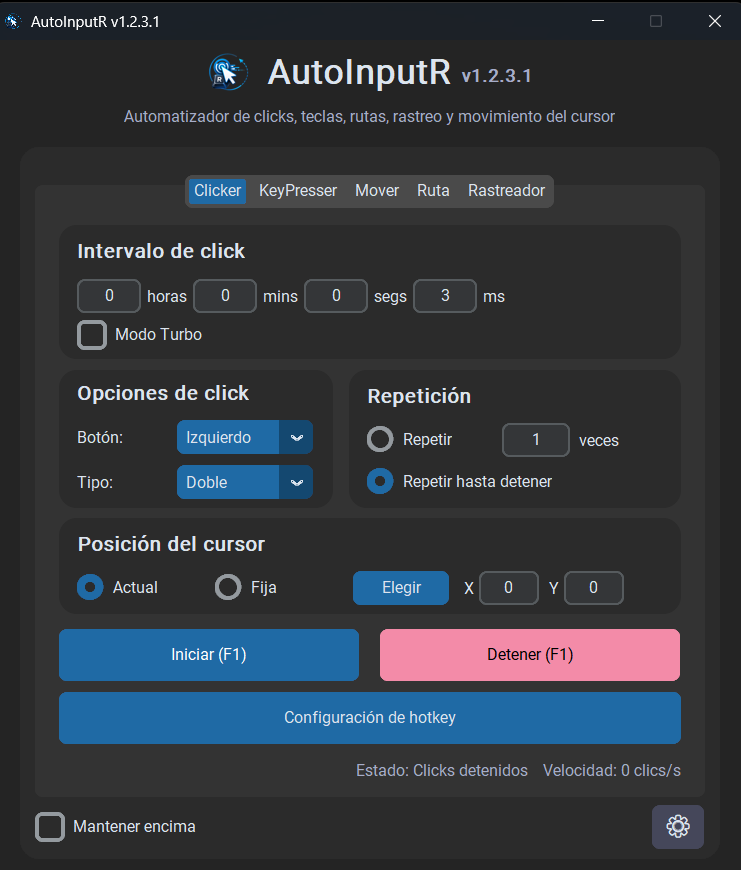
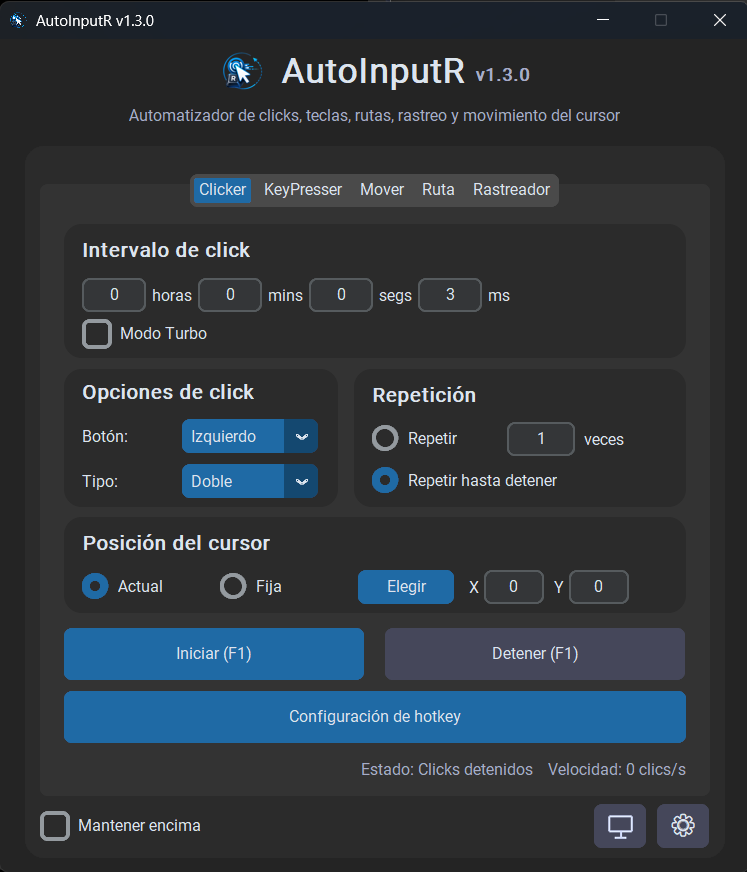
Actualizar documentación para AutoInputR v1.3.0

diff --git a/README.md b/README.md
@@ -6,25 +6,7 @@ AutoInputR es una aplicación de escritorio para Windows que permite automatizar
 
 ## Versión actual
 
-**AutoInputR v1.2.3.1**
-
-## Características
-
-* Clicker automático con intervalos configurables.
-* Click simple o doble.
-* Posición actual o coordenadas fijas.
-* KeyPresser para repetir una tecla seleccionada.
-* Movimiento automático del cursor dentro de una zona.
-* Velocidad de movimiento configurable.
-* Grabación y reproducción de rutas del cursor.
-* Registro de clicks dentro de las rutas.
-* Grabación de rutas manteniendo otra aplicación o juego enfocado.
-* Rastreo visual de objetivos mediante plantillas.
-* Movimiento suave hacia objetivos detectados.
-* Sistema anti-AFK para Mover y Rastreador.
-* Hotkeys globales configurables.
-* Configuración persistente.
-* Integración con la bandeja del sistema.
+**AutoInputR v1.3.0**
 
 ## Descargar AutoInputR
 
@@ -32,7 +14,7 @@ La versión oficial más reciente se encuentra en la sección **Releases** de es
 
 Descarga:
 
-`AutoInputR_Setup_v1.2.3.1.exe`
+`AutoInputR_Setup_v1.3.0.exe`
 
 Después:
 
@@ -40,17 +22,82 @@ Después:
 2. Sigue las instrucciones mostradas.
 3. Abre AutoInputR desde el acceso directo creado.
 
+## Características
+
+### Clicker
+
+* Clicks automáticos con intervalos configurables.
+* Click simple o doble.
+* Botón izquierdo, derecho o central.
+* Posición actual del cursor o coordenadas fijas.
+* Repetición limitada o indefinida.
+* Modo Turbo.
+
+### KeyPresser
+
+* Repetición automática de una tecla seleccionada.
+* Intervalos configurables.
+* Repetición limitada o indefinida.
+* Hotkeys globales.
+* Modo Turbo.
+
+### Mover
+
+* Movimiento automático del cursor dentro de una zona seleccionada.
+* Diferentes patrones de movimiento.
+* Desplazamiento suave.
+* Velocidad configurable.
+* Clicks periódicos para evitar inactividad.
+
+### Ruta
+
+* Grabación de movimientos del cursor.
+* Registro de clicks durante la grabación.
+* Reproducción de rutas.
+* Velocidad de reproducción configurable.
+* Grabación mientras otra aplicación o juego permanece enfocado.
+* HUD visual durante la grabación en juego.
+
+### Rastreador
+
+* Selección de una zona de búsqueda.
+* Captura de una imagen objetivo.
+* Rastreo visual mediante plantillas.
+* Movimiento suave hacia el objetivo detectado.
+* Coincidencia mínima configurable.
+* Micro movimientos para activar elementos mediante hover.
+* Clicks periódicos anti-AFK.
+
+### Ventana objetivo
+
+* Selector de ventana objetivo.
+* Identificación mediante título, proceso y clase.
+* Automatizaciones limitadas opcionalmente a la ventana seleccionada.
+* Pausa automática cuando la ventana pierde el foco.
+* Reanudación automática al recuperar el foco.
+* Indicador visual del estado de la ventana.
+* Protección aplicada a Clicker, KeyPresser, Mover, Ruta y Rastreador.
+* Recuperación de la selección después de reiniciar AutoInputR.
+
+### Funciones generales
+
+* Hotkeys globales configurables.
+* Configuración persistente.
+* Opción para mantener la aplicación encima.
+* Integración con la bandeja del sistema.
+* Interfaz gráfica desarrollada con CustomTkinter.
+
 ## Requisitos
 
-* Windows.
+* Sistema operativo Windows.
 * Permisos para instalar y ejecutar aplicaciones.
-* Algunas funciones pueden comportarse de manera diferente según el juego o aplicación utilizada.
+* Algunas funciones pueden comportarse de manera diferente según el programa o juego utilizado.
 
 ## Uso responsable
 
 AutoInputR es una herramienta de automatización general.
 
-El usuario es responsable de comprobar que su uso esté permitido por las reglas, términos y condiciones de las aplicaciones, juegos o servicios donde la utilice.
+El usuario es responsable de comprobar que su utilización esté permitida por las reglas, términos y condiciones de las aplicaciones, juegos o servicios donde la ejecute.
 
 ## Código fuente
 
@@ -60,7 +107,7 @@ El código fuente completo de AutoInputR no se distribuye públicamente.
 
 Se permite descargar, instalar y utilizar gratuitamente la versión oficial compilada de AutoInputR para uso personal.
 
-No se autoriza, sin permiso previo del autor:
+Sin autorización previa del autor, no está permitido:
 
 * Modificar o distribuir versiones modificadas de AutoInputR.
 * Redistribuir el instalador o ejecutable desde fuentes no oficiales.
@@ -69,7 +116,7 @@ No se autoriza, sin permiso previo del autor:
 * Utilizar sus logotipos o identidad visual en productos derivados.
 * Realizar ingeniería inversa, salvo cuando la legislación aplicable lo permita expresamente.
 
-AutoInputR se proporciona tal cual, sin garantías. El autor no se responsabiliza por daños, sanciones, pérdidas o consecuencias derivadas de su utilización.
+AutoInputR se proporciona tal cual, sin garantías. El autor no se responsabiliza por daños, pérdidas, sanciones o consecuencias derivadas de su utilización.
 
 ## Autor
 